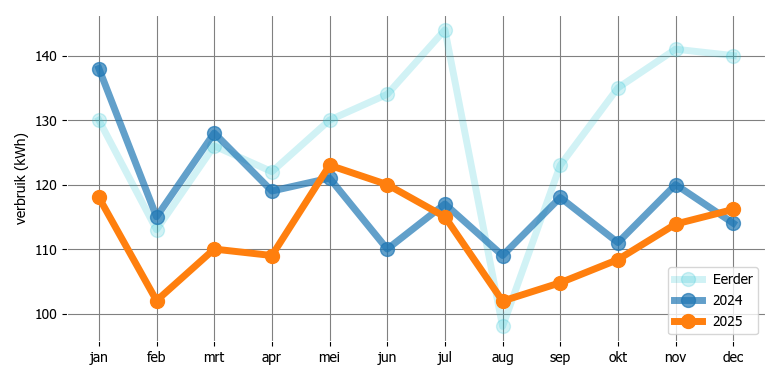
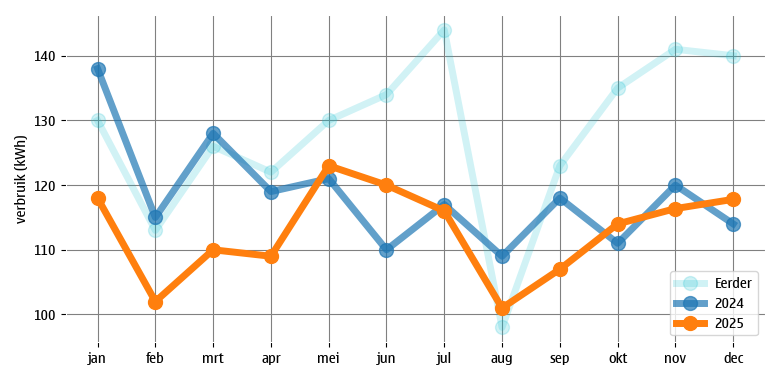
feat: Tot en met okt 2025

diff --git a/energieverbruik.py b/energieverbruik.py
@@ -44,12 +44,12 @@ VORIG_JAAR = HUIDIG_JAAR - 1
 #
 # INVOEREN GEGEVENS HUIDIGE JAAR
 #
-MAAND = Month.jul
+MAAND = Month.okt
 DAG_VAN_MAAND = 31
 DAGEN_IN_MAAND = MAAND.days 
-VERBRUIK_GAS = 22
-VERBRUIK_ELEKTRICITEIT = 115
-VERBRUIK_WATER = 9.3
+VERBRUIK_GAS = 65
+VERBRUIK_ELEKTRICITEIT = 114
+VERBRUIK_WATER = 10.4
 PRIJS_GAS = 1.20840
 PRIJS_ELEKTRICITEIT = 0.28926
 PRIJS_WATER = 1.021
@@ -160,13 +160,13 @@ percVerbrWatVrgJr2 = (totVerbrWatVrgJr2 / sumVerbrWatVrgJr2)
 
 # Combineer graaddagen en verbruik vorige jaren als basis voor verwachting
 # verbruik komende jaar
-combiVerbrGas = ((percGraaddagen + (3 * percVerbrGasVrgJr) + (2 * percVerbrGasVrgJr2)) / 6)
+combiVerbrGas = ((percGraaddagen + (3 * percVerbrGasVrgJr) + (1 * percVerbrGasVrgJr2)) / 5)
 
 # Combineer gemiddeld elektriciteit en verbruik vorige jaren als basis voor verwachting
-combiVerbrEle = ((gemEle + (3 * percVerbrEleVrgJr) + (2 * percVerbrEleVrgJr2)) / 6)
+combiVerbrEle = ((gemEle + (3 * percVerbrEleVrgJr) + (1 * percVerbrEleVrgJr2)) / 5)
 
 # Combineer gemiddeld waterverbruik en verbruik vorige jaren als basis voor verwachting
-combiVerbrWat = ((gemWat + (3 * percVerbrWatVrgJr) + (2 * percVerbrWatVrgJr2)) / 6)
+combiVerbrWat = ((gemWat + (3 * percVerbrWatVrgJr) + (1 * percVerbrWatVrgJr2)) / 5)
 
 percMnd = DAG_VAN_MAAND / DAGEN_IN_MAAND
 verbrGasMnd = (VERBRUIK_GAS / percMnd) - vastGasMnd
@@ -353,7 +353,7 @@ maanden = ["jan", "feb", "mrt", "apr", "mei", "jun", "jul", "aug", "sep",
 rcParams['axes.edgecolor'] = 'White'
 rcParams['figure.figsize'] = [7.8, 3.8]
 rcParams['font.family'] = ['sans-serif']
-rcParams['font.sans-serif'] = ['Tahoma']
+rcParams['font.sans-serif'] = ['Nokia Sans']
 
 def GrafiekGas():
     # Grafiek gasverbruik
